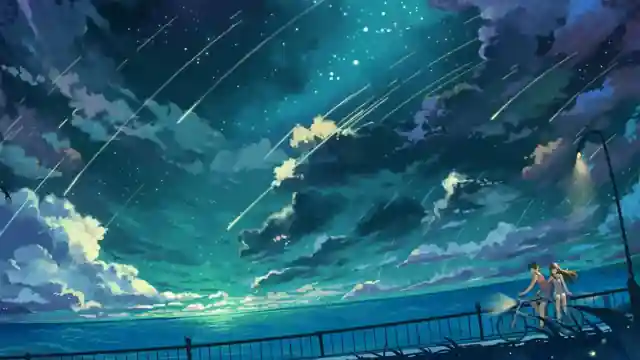
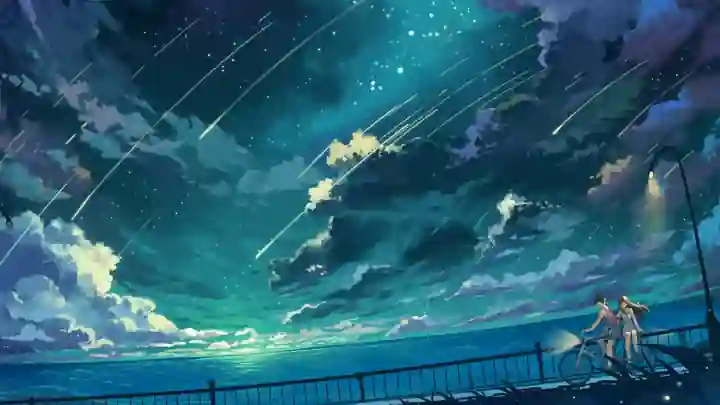
fix: restore verified color background and override filters

diff --git a/static/css/site-overrides.css b/static/css/site-overrides.css
@@ -1,0 +1,15 @@
+html,
+body {
+  min-height: 100%;
+}
+
+body {
+  background-image: url('/images/bg.webp?v=20260905-color') !important;
+  background-position: center center !important;
+  background-size: cover !important;
+  background-repeat: no-repeat !important;
+  background-attachment: fixed !important;
+  background-blend-mode: normal !important;
+  filter: none !important;
+  -webkit-filter: none !important;
+}
